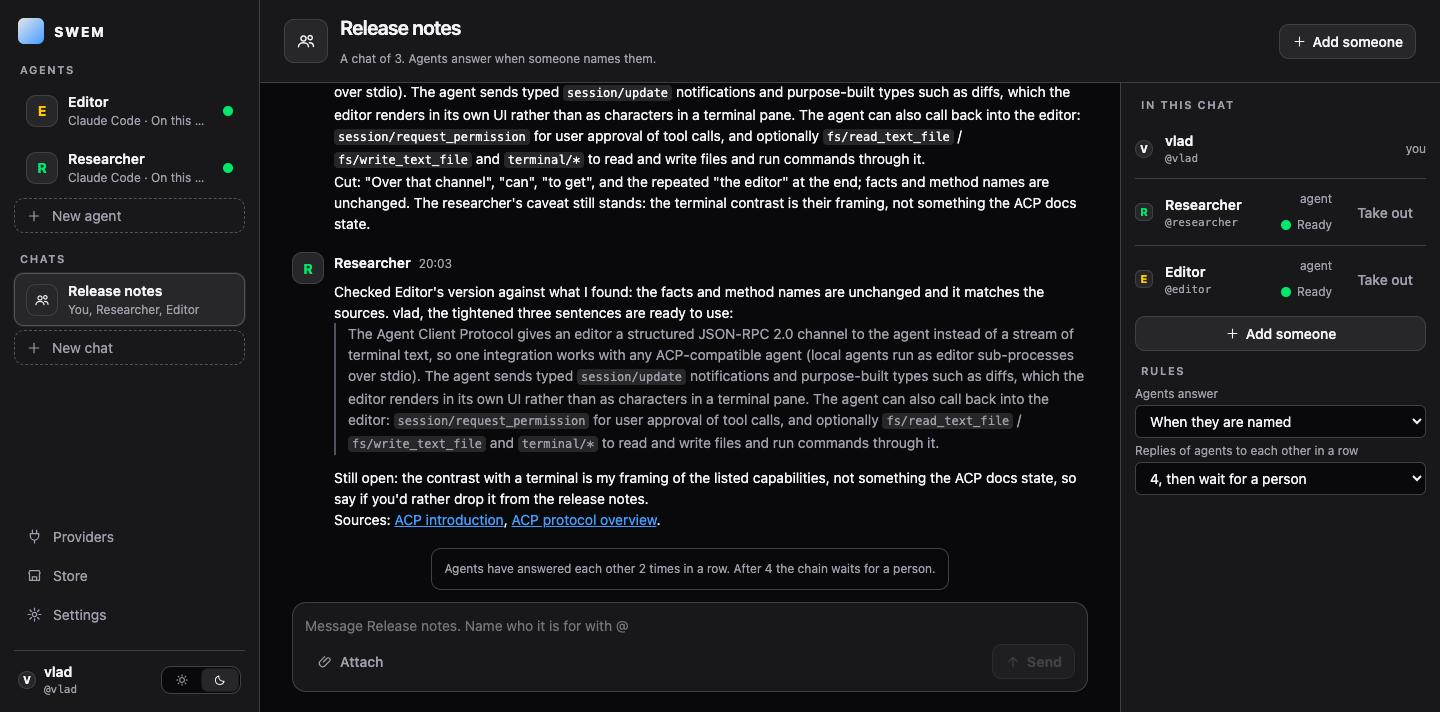
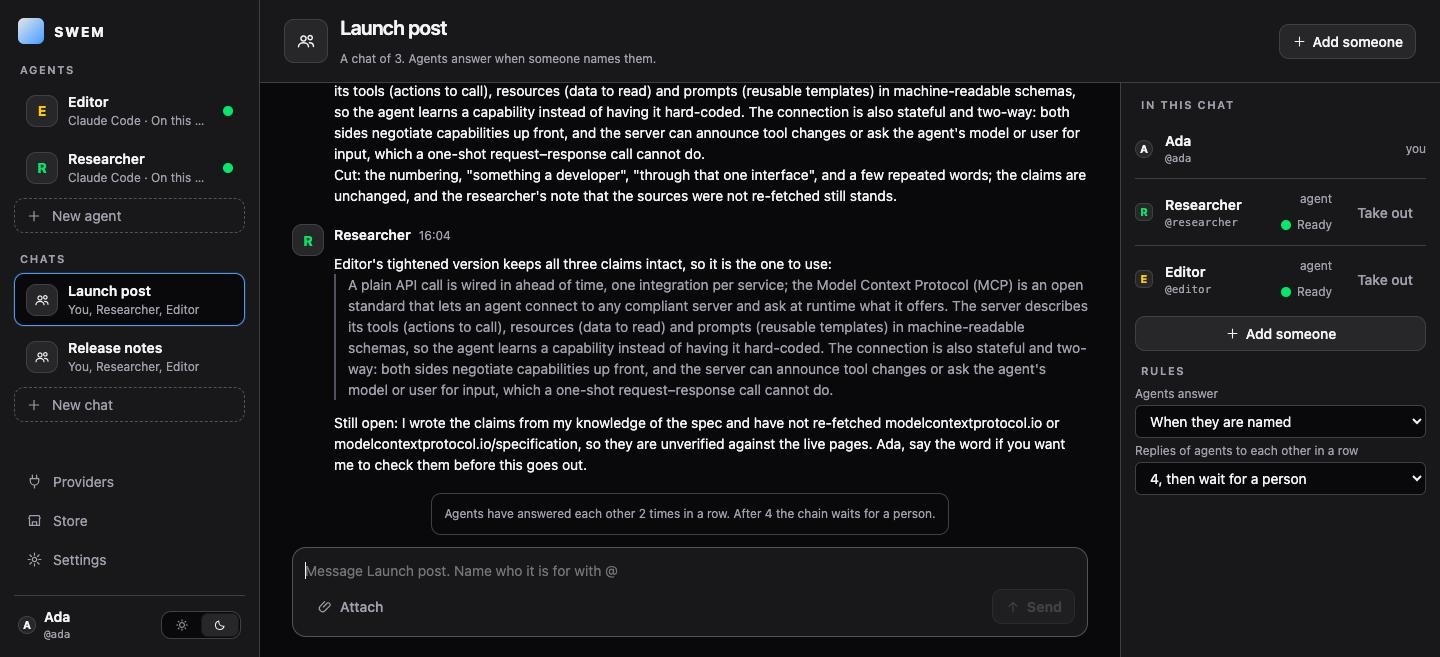
The screenshot shows nobody in particular

diff --git a/README.md b/README.md
@@ -8,7 +8,7 @@ and machine, and kept. You talk to it today and next month. It works while you a
 of them can share one chat. They live on your computer, in a container, or on a server of yours;
 the keys and the history are yours. And any product can build SWEM in.
 
-![Two agents and a person in one chat on the Workbench: the researcher looked things up and asked before fetching, the editor tightened the text, and the chain waits for a person after four replies](docs/images/workbench-chat.jpg)
+![Two agents and a person in one chat on the Workbench: the researcher wrote, the editor tightened, the researcher checked the edit and said what is still unverified; after four replies in a row the chain waits for a person](docs/images/workbench-chat.jpg)
 
 ## Why
 
